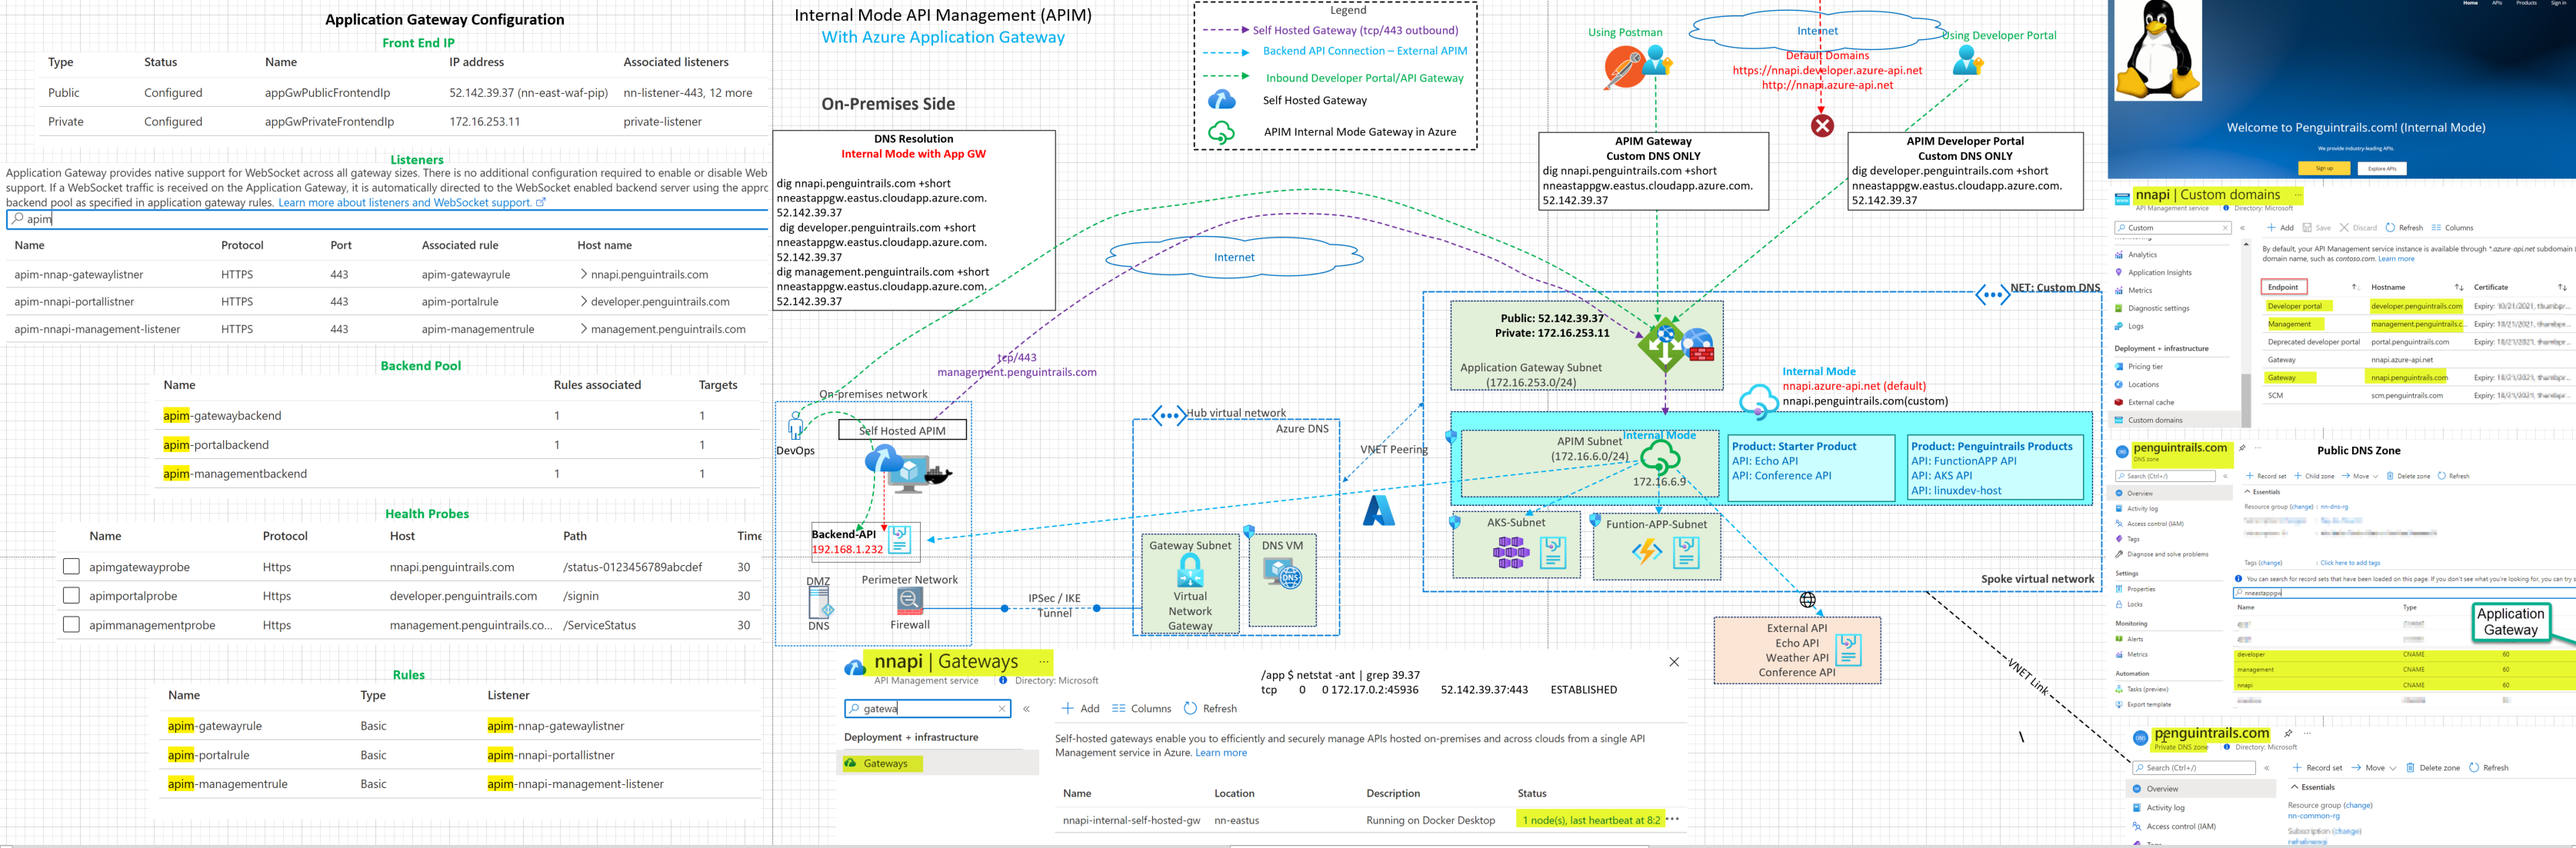
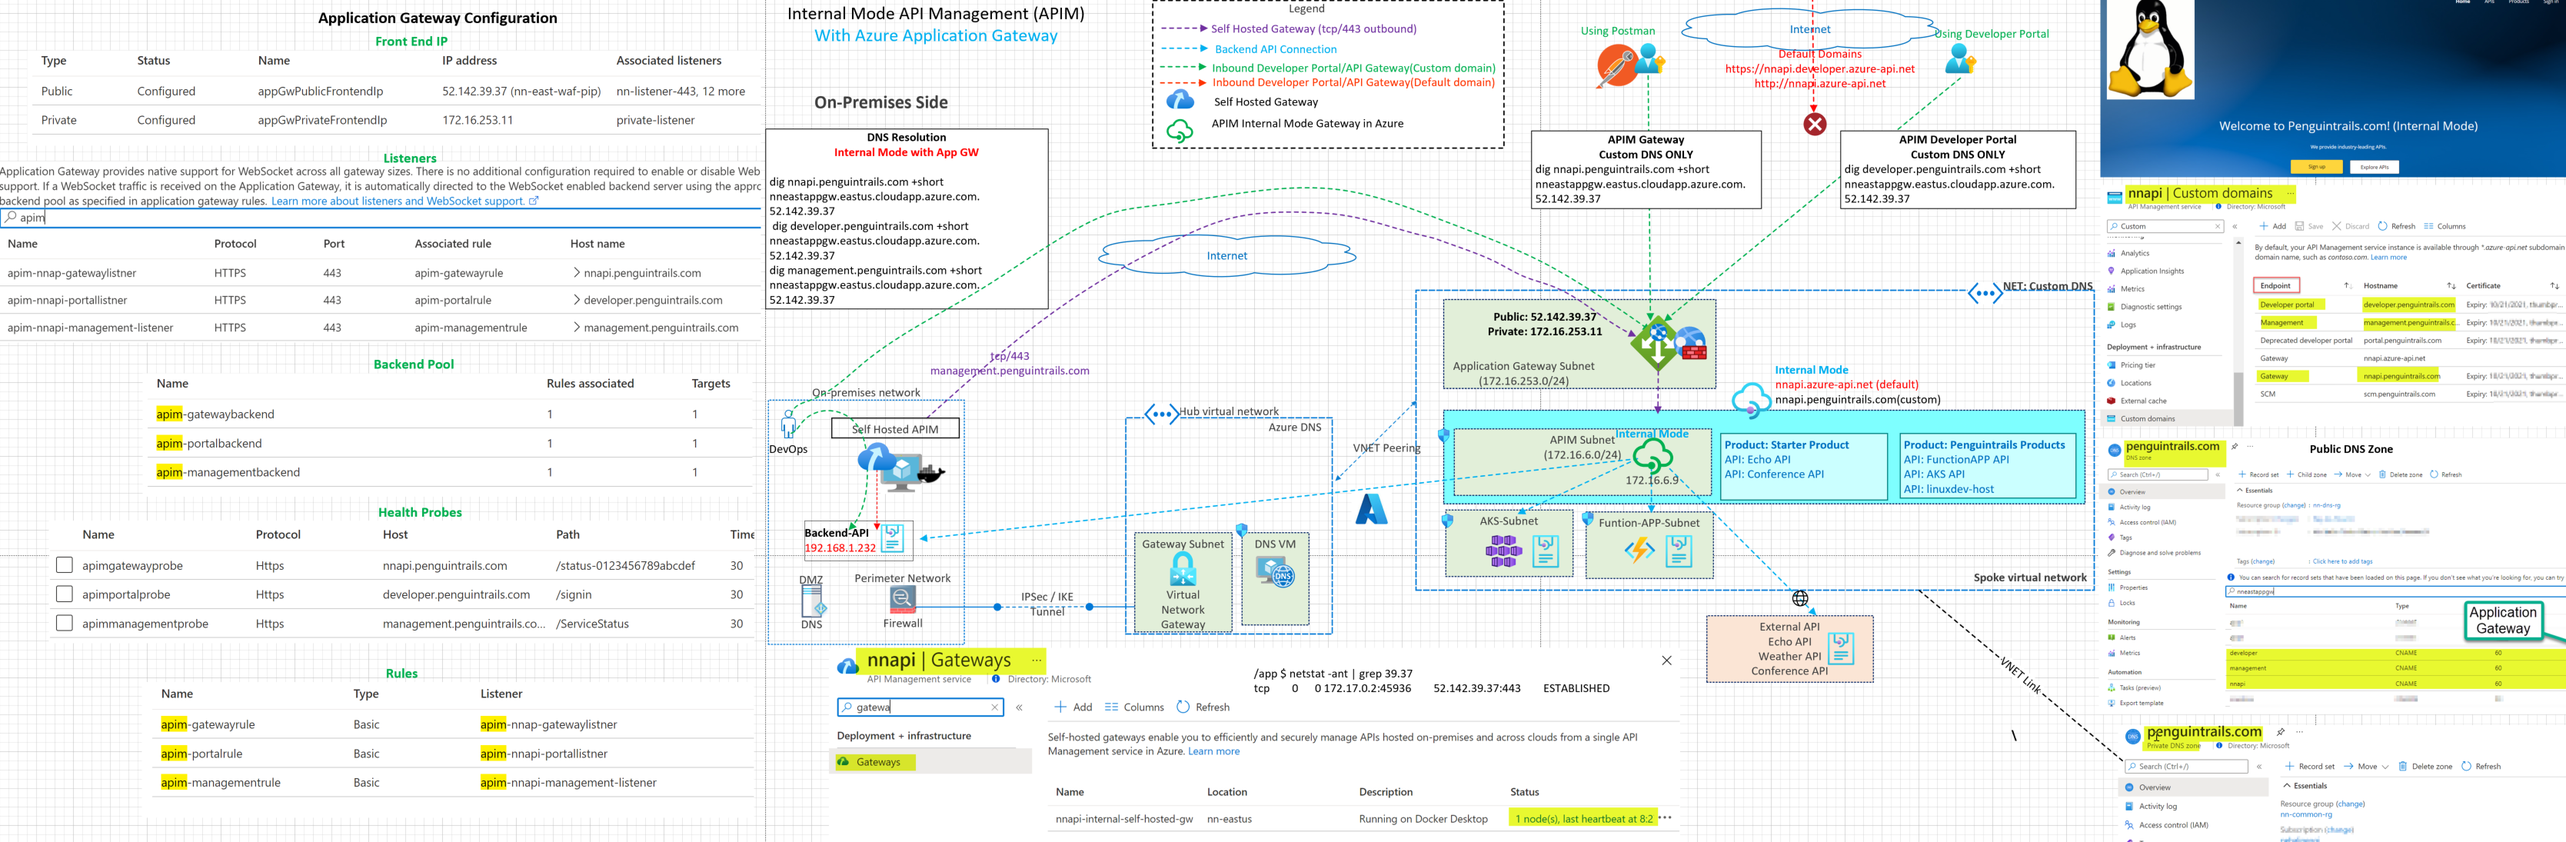
fixed minor things

diff --git a/apim/README-appgw.md b/apim/README-appgw.md
@@ -1,6 +1,6 @@
 ## Azure API Management (APIM) Internal Mode with Application Gateway
 
-This architecture demonstrates connectivity architecture and traffic flows to API Management (APIM) gateways and developer portal. APIM can be deployed in various modes. APIM in Internal Mode is accessible via private IP (172.16.6.9). APIM in Internal Mode can be deployed in conjunction with Application gateway for external access. This architecture diagram shows APIM in Internal Mode with Application gateway and Custom domain.
+ APIM can be deployed in various modes. APIM in Internal Mode is accessible via private IP (172.16.6.9). APIM in Internal Mode can be deployed in conjunction with Application gateway for external access. This architecture diagram shows APIM in Internal Mode with Application gateway and Custom domains for APIM endpoints.
 
 ## Reference Architecture
 
@@ -15,12 +15,21 @@ This architecture demonstrates connectivity architecture and traffic flows to AP
 2. [APIM with Application Gateway](https://docs.microsoft.com/en-us/azure/api-management/api-management-using-with-internal-vnet)
 3. [APIM Self Hosted Gateway](https://docs.microsoft.com/en-us/azure/api-management/self-hosted-gateway-overview)
 
-## Design Components
-1. APIM in Internal Mode is accessible via private IP (172.16.6.9) only. APIM in Internal Mode deployed in conjunction with Application gateway for external access.
-2. VPN/Private Connectivity: External Consumers and developers would access the developer portal via application gateway. Note: With VPN connectivity, internal consumers can access the developer portal and APIM directly. See DNS considerations. **Self-hosted gateway will work with or without private connectivity** as long as management.penguintrails.com resovles correctly and is routable from on-premises.
+## Design Components and Considerations:
+0. **Traffic Flows**
+   
+   1. Blue/Cyan : Backend API Connections
+   2. Green: Developer Portal Access from on-premises and External Consumers using custom domain
+   3. Red: Developer Portal Access from Internet using default domain (Not allowed in Internal Mode)
+   4. Purple: Self-hosted APIM Gateway on-premises outbound connection to APIM Management plane
+   5. Note: VPN/Private Connectivity is optional. APIM endpoints are exposed on the application gateway.
+
+1. APIM in Internal Mode is accessible via private IP (172.16.6.9) only. APIM in Internal Mode deployed in conjunction with Application gateway for external access to APIM endpoints.
+   
+2. VPN/Private Connectivity: External Consumers and developers would access the developer portal via application gateway. Note: With VPN connectivity, internal consumers can access the developer portal and APIM directly. See DNS considerations. **Self-hosted gateway will work with or without private connectivity** as long as management.penguintrails.com resolves correctly and is routable from on-premises.
 
   
-3. In Internal Network mode, the DNS needs to be maintained and configured by the user. Custom domains using Azure Private DNS Zone and Public DNS can be leveraged. **Note: that Default DNS Domains not accessible from the internet in Internal Mode.**
+3. In Internal Network mode, the DNS needs to be maintained and configured by the user. Custom domains using Azure Private DNS Zone and Public DNS can be leveraged. **Note: that Default DNS endpoints below not accessible from the internet in Internal Mode.**
 
 ```
 Default Domains
@@ -49,19 +58,26 @@ nneastappgw.eastus.cloudapp.azure.com.
 
 5. Backend APIs needs to be routable from APIM. If VPN is available, on-premises APIs will be reachable for Azure API. Otherwise, leverage self-hosted APIM gateway
    
-6. Use Docker host or on-premises Kubernetes cluster to run API Management self-hosted gateway
-7. The diagram shows Backend APIs running in Azure (AKS Cluster, Function App), externally hosted APIs (example weather API or conference API) and Backend API hosted on-premises
 
-7.  Self-hosted Gateway Considerations  - Management.penguintrails.com DNS should resolve from on-premises or where the the gateway is hosted.
+6. The diagram shows Backend APIs running in Azure (AKS Cluster, Function App), externally hosted APIs (example weather API or conference API) and Backend API hosted on-premises
+
+7.  Self-hosted Gateway Considerations  - 
+   * Use Docker host or on-premises Kubernetes cluster to run API Management self-hosted gateway
+   * Management.penguintrails.com DNS should resolve from on-premises or where the the gateway is hosted.
 8.  Identity Considerations - Management.penguintrails.com should resolve correctly for AAD and B2C to work correctly.
 9.  Application Gateway VNET is linked to Private DNS Zone for internal resolution of the custom domain.
 
-## Pre-requisites
+# Pre-requisites
+Using Azure documentation link [here](https://docs.microsoft.com/en-us/azure/api-management/import-and-publish) ensure that you've deployed APIM in the Internal Mode.
 
-1. Deploy APIM In Internal Mode
-2. One Published Product with API
-3. Developer Portal Published (with branding optional)
-
+Refer to common documentation link [here](README-common.md) for more details on pre-requisites
+1. APIM is deployed in Internal Mode.
+2. Products, APIs and subscriptions created.
+3. VPN or Private Connectivity is required in this design.
+4. Internal and External APIs routable from APIM subnet.
+5. Azure Provided default DNS resolution for API endpoints.
+6. Developer Portal Published (Branding optional)
+7. Troubleshooting Notes - [here](README-troubleshooting.md).
 
 
 ## Application Gateway Setup Snippets
@@ -92,7 +108,7 @@ Please refer to Azure documentation links for detailed implementation. These scr
 ### Backend Health
 ![APIM Architecture](images/appgw/ag-be-health.png)
 
-### Public DNS for External Consumers. Note that it's a CNAME application gateway DNS name.
+### Public DNS for External Consumers. Note that it's a CNAME to application gateway DNS name.
 ![APIM Architecture](images/appgw/ag-public-dns.png)
 
 ## Validations

diff --git a/apim/README-internal.md b/apim/README-internal.md
@@ -1,6 +1,6 @@
 ## Azure API Management (APIM) Architecture
 
-This architecture demonstrates the connectivity architecture and traffic flows to and from API Management (APIM). APIM can be deployed in various modes. APIM can be deployed inside an Azure Virtual Network (VNET) to access backend services with the network. The diagram shows APIM in Internal Mode only. Note: For design option for external access with Application gateway and Custom DNS refer to the next article. Main consideration for APIM in Internal Mode is it's more secure and it's not reachable from the public internet for external consumers. However, DNS needs to be configured manually.
+This architecture demonstrates the connectivity architecture and traffic flows to and from API Management (APIM). APIM can be deployed in various modes. APIM can be deployed inside an Azure Virtual Network (VNET) to access backend services with the network. This diagram shows APIM in Internal Mode only. Note: For design option for external access with Application gateway and Custom DNS refer to the next article. Main consideration for APIM in Internal Mode is it's more secure and it's not reachable from the public internet for external consumers. However, DNS needs to be configured manually.
 
 ## Azure Documentation links
 
@@ -25,9 +25,10 @@ This architecture demonstrates the connectivity architecture and traffic flows t
    2. Green: Developer Portal Access from on-premises
    3. Red: Developer Portal Access from Internet (Not allowed in Internal Mode)
    4. Purple: Self-hosted APIM Gateway on-premises outbound connection to APIM Management plane
+   5. Note: VPN/Private Connectivity is required.
 
 
-1. APIM in Internal mode is accessible from on-premise **via a private IP.** Note: APIM in Internal Mode can be deployed in conjunction with Application gateway for external access. Detailed implementation with application gateway in the next section.
+1. APIM in Internal mode is accessible from on-premise **via a private IP.** - 172.16.6.9 in this example. Note: APIM in Internal Mode can be deployed in conjunction with Application gateway for external access. Detailed implementation with application gateway in the next section.
 2. **DNS Considerations:** In APIM Internal Mode, DNS needs to be maintained and configured by the user. Custom domain using Azure Private DNS Zone and hybrid DNS should be leveraged. For POC/labs a local hosts file can be used.
 ```
 # api default domain
@@ -47,27 +48,29 @@ This architecture demonstrates the connectivity architecture and traffic flows t
 172.16.6.9 scm.penguintrails.com
 
 ```
+Azure Private DNS Zone
 ![APIM Architecture](images/internal/private-dns-zone.png)
 
 3. Backend APIs needs to be routable from APIM in Internal Mode.
-4. Use Docker host or on-premises Kubernetes cluster to run API Management self-hosted gateway
-5. The diagram shows Backend APIs running in Azure (AKS Cluster, Function App), externally hosted APIs (example weather API or conference API) and Backend APIs hosted on-premises
-6. APIM Custom domain and LetsEncrypt Certificate deployed
+
+4. Backend APIs: The diagram shows Backend APIs running in Azure (AKS Cluster, Function App), externally hosted APIs (example weather API or conference API) and Backend APIs hosted on-premises
+5. APIM Custom domain and LetsEncrypt Certificate deployed
    ![APIM Architecture](images/internal/custom-domain.png)
-7. Internal APIs hosted on-premises and in Azure (AKS or Azure Functions)
-8. External API (Echo and Conference APIs)
-9.  Self-hosted Gateway Consideration: Backend APIs need to be routable from self-hosted APIM Gateway. Management.penguintrails.com resolves to private IP and needs to be routable over VPN/Private connection.
+
+6.  Self-hosted Gateway Consideration: 
+   * Use Docker host or on-premises Kubernetes cluster to run API Management self-hosted gateway 
+   * Backend APIs need to be routable from self-hosted APIM Gateway. Management.penguintrails.com resolves to private IP and needs to be routable over VPN/Private connection.
   
 # Pre-requisites
 Using Azure documentation link [here](https://docs.microsoft.com/en-us/azure/api-management/import-and-publish) ensure that you've deployed APIM in the Internal Mode.
 
 Refer to common documentation link [here](README-common.md) for more details on pre-requisites
 1. APIM is deployed in Internal Mode.
-2. Products, APIs and subscriptions created
-3. VPN or Private Connectivity is required in this design
-4. Internal and External APIs routable from APIM subnet
+2. Products, APIs and subscriptions created.
+3. VPN or Private Connectivity is required in this design.
+4. Internal and External APIs routable from APIM subnet.
 5. Azure Provided default DNS resolution for API endpoints.
-6. Developer Portal Published
+6. Developer Portal Published.
 7. Troubleshooting Notes - [here](README-troubleshooting.md).
 
 

diff --git a/apim/README-external.md b/apim/README-external.md
@@ -1,6 +1,6 @@
 # Azure API Management (APIM) External Mode
 
-This architecture demonstrates the connectivity architecture and traffic flows to and from API Management (APIM). APIM can be deployed in various modes. The diagram shows APIM in External Mode with Custom DNS, APIM self-hosted gateway. Main consideration for APIM in External Mode is that it's reachable from the public internet for external consumers with minimal DNS configuration.
+This architecture demonstrates the connectivity architecture and traffic flows to and from API Management (APIM). APIM can be deployed in various modes. This diagram shows APIM in External Mode with Custom DNS and APIM self-hosted gateway. Main consideration for APIM in External Mode is that it's reachable from the public internet for external consumers with minimal DNS configuration.
 
 # Azure Documentation links
 
@@ -19,7 +19,7 @@ This architecture demonstrates the connectivity architecture and traffic flows t
 0. **Traffic Flows**
    
    1. Blue/Cyan : Backend API Connections
-   2. Green: Developer Portal and API Gateway Access from On-Prem
+   2. Green: Developer Portal and API Gateway Access from On-Premises and External Consumers
    3. Red: No VPN to On-premises
    4. Purple: Self-hosted APIM Gateway(On-Premises) outbound connection to APIM Management plane in Azure
 
@@ -41,12 +41,16 @@ API Management Endpoint nnapi-external.management.azure-api.net
 API Git nnapi-external.scm.azure-api.net
 ```
 
-2. **DNS Custom domain considerations:** APIM External Mode is accessible from the internet. APIM Public DNS is set up and Custom domain is deployoed with LetsEncrypt Certificates in the keyvault
+2. **DNS Custom domain considerations:** APIM External Mode is accessible from the internet. APIM Public DNS is set up and Custom domain is deployoed with LetsEncrypt Certificates in the keyvault.
 
+Public DNS
 
    ![APIM Architecture](images/external/public-DNS.png)
+
+Custom Domain and Keyvault Certificate integration
    ![APIM Architecture](images/external/apim-custom-domains.png)
 
+Example
 ```
     dig +short api-external.penguintrails.com
 nnapi-external.azure-api.net.
@@ -64,14 +68,15 @@ apimgmthsbkt9pesb7u9kyu94q3o8fn5nnanvvv8rykjsxmmxr.cloudapp.net.
 40.71.32.102
 
 ```
-3. Backend APIs needs to be routable from APIM in Internal Mode.
-4. Use Docker host or on-premises Kubernetes cluster to run API Management self-hosted gateway
-5. The diagram shows Backend APIs running in Azure (AKS Cluster, Function App), externally hosted APIs (example weather API or conference API) and Backend API hosted on-premises
-6. Internal APIs hosted On-premises and in Azure (AKS or Azure Functions)
-7. External API (Echo and Conference APIs)
-8. Self hosted Gateway Consideration: Backend APIs (192.168.1.232) needs to be routable from Self hosted APIM Gateway within the on-premises environment. Management.penguintrails.com resolves to public IP.
-  
+1. Backend APIs needs to be routable from APIM in Internal Mode.
 
+2. APIs: The diagram shows Backend APIs running in Azure (AKS Cluster, Function App), externally hosted APIs (example weather API or conference API) and Backend API hosted on-premises
+
+3. Self hosted Gateway Consideration: 
+   
+    * Use Docker host or on-premises Kubernetes cluster to run API Management self-hosted gateway
+   * Backend APIs (192.168.1.232) needs to be routable from Self hosted APIM Gateway within the on-premises environment. Management.penguintrails.com resolves to public IP.
+  
 
 # Pre-requisites
 Using Azure documentation link [here](https://docs.microsoft.com/en-us/azure/api-management/import-and-publish) ensure that APIM is in External Mode.

diff --git a/apim/README-default.md b/apim/README-default.md
@@ -20,15 +20,15 @@ This architecture demonstrates the connectivity architecture and traffic flows t
 2. **Traffic Flows**
    
    1. Blue/Cyan : Backend API Connections
-   2. Green: Developer Portal and API Gateway Access from on-premises
+   2. Green: Developer Portal and API Gateway Access from on-premises and from Internet
    3. Red: No VPN to on-premises
    4. Purple: Self-hosted APIM Gateway (on-premises) outbound connection to APIM Management plane in Azure
 
 
-3. APIM in default mode is accessible from the internet. Note : VPN connectivity to on-premises is not needed (it's optional). Default DNS Resolution is provided by Azure DNS
+3. Default DNS: APIM in default mode is accessible from the internet. Note : VPN connectivity to on-premises is not needed (it's optional). Default DNS Resolution is provided by Azure DNS
 
 **APIM default Mode default hostnames**
-Note: All resolve to public IP: 13.92.61.44
+Note: All resolve to APIM VIP - public IP: 13.92.61.44
 
 ```
 API Gateway :           nnapi-default.azure-api.net
@@ -60,12 +60,12 @@ nehali@nehali-laptop:~$ dig nnapi-default.management.azure-api.net +short
 apimgmthswl9re3lmxzql1trcem4vhzns3wi7pgownizflvlit.cloudapp.net.
 13.92.61.44
 ```
-5. Backend APIs need to be pubicly accessible (Example Echo API, Conference API or API running on linux host with public IP address)
-6. Use Docker host or on-premises Kubernetes cluster to run API Management self-hosted gateway
+5. Backend APIs need to be pubicly accessible (Example Echo API, Conference API or API running on linux host with** public IP address**)
 
-7. Self hosted Gateway Consideration:
-   
-    Backend APIs (192.168.1.232) needs to be routable from self-hosted APIM Gateway within the on-premises environment. Management.penguintrails.com resolves to public IP.
+
+6. Self hosted Gateway Consideration:
+   * Use Docker host or on-premises Kubernetes cluster to run API Management self-hosted gateway
+   * Backend APIs (192.168.1.232) needs to be routable from self-hosted APIM Gateway within the on-premises environment. Management.penguintrails.com resolves to public IP of the APIM (13.92.61.44)
 
 
 
@@ -152,7 +152,7 @@ listening on eth0, link-type EN10MB (Ethernet), capture size 262144 bytes
 
 ![APIM Architecture](images/default/self-host-api.png)
 
-3. Deploy Gateway on Prem using the env.conf and the docker run command
+3. Deploy Gateway on an Premises Docker host (in this example running on WSL linux) using the env.conf and the docker run command
 
  
 Note: Adjust the listening port per your environment. Default is 80 and 443. In this example it's changed to 9001 and 9002.

diff --git a/apim/README-common.md b/apim/README-common.md
@@ -1,4 +1,4 @@
-# Azure API Management (APIM) Architecture
+# Azure API Management (APIM) - Big Picture View
 
 This architecture shows the big picture view of Azure API Management (APIM) and introduction to the terminology and common design components used in different sections of this series. This reference architecture also demonstrates the high level placement of APIM in different modes (Internal,External and Default/None). The main focus of this series is the different networking modes which are detailed out in seperate sections throughout the series.
 
